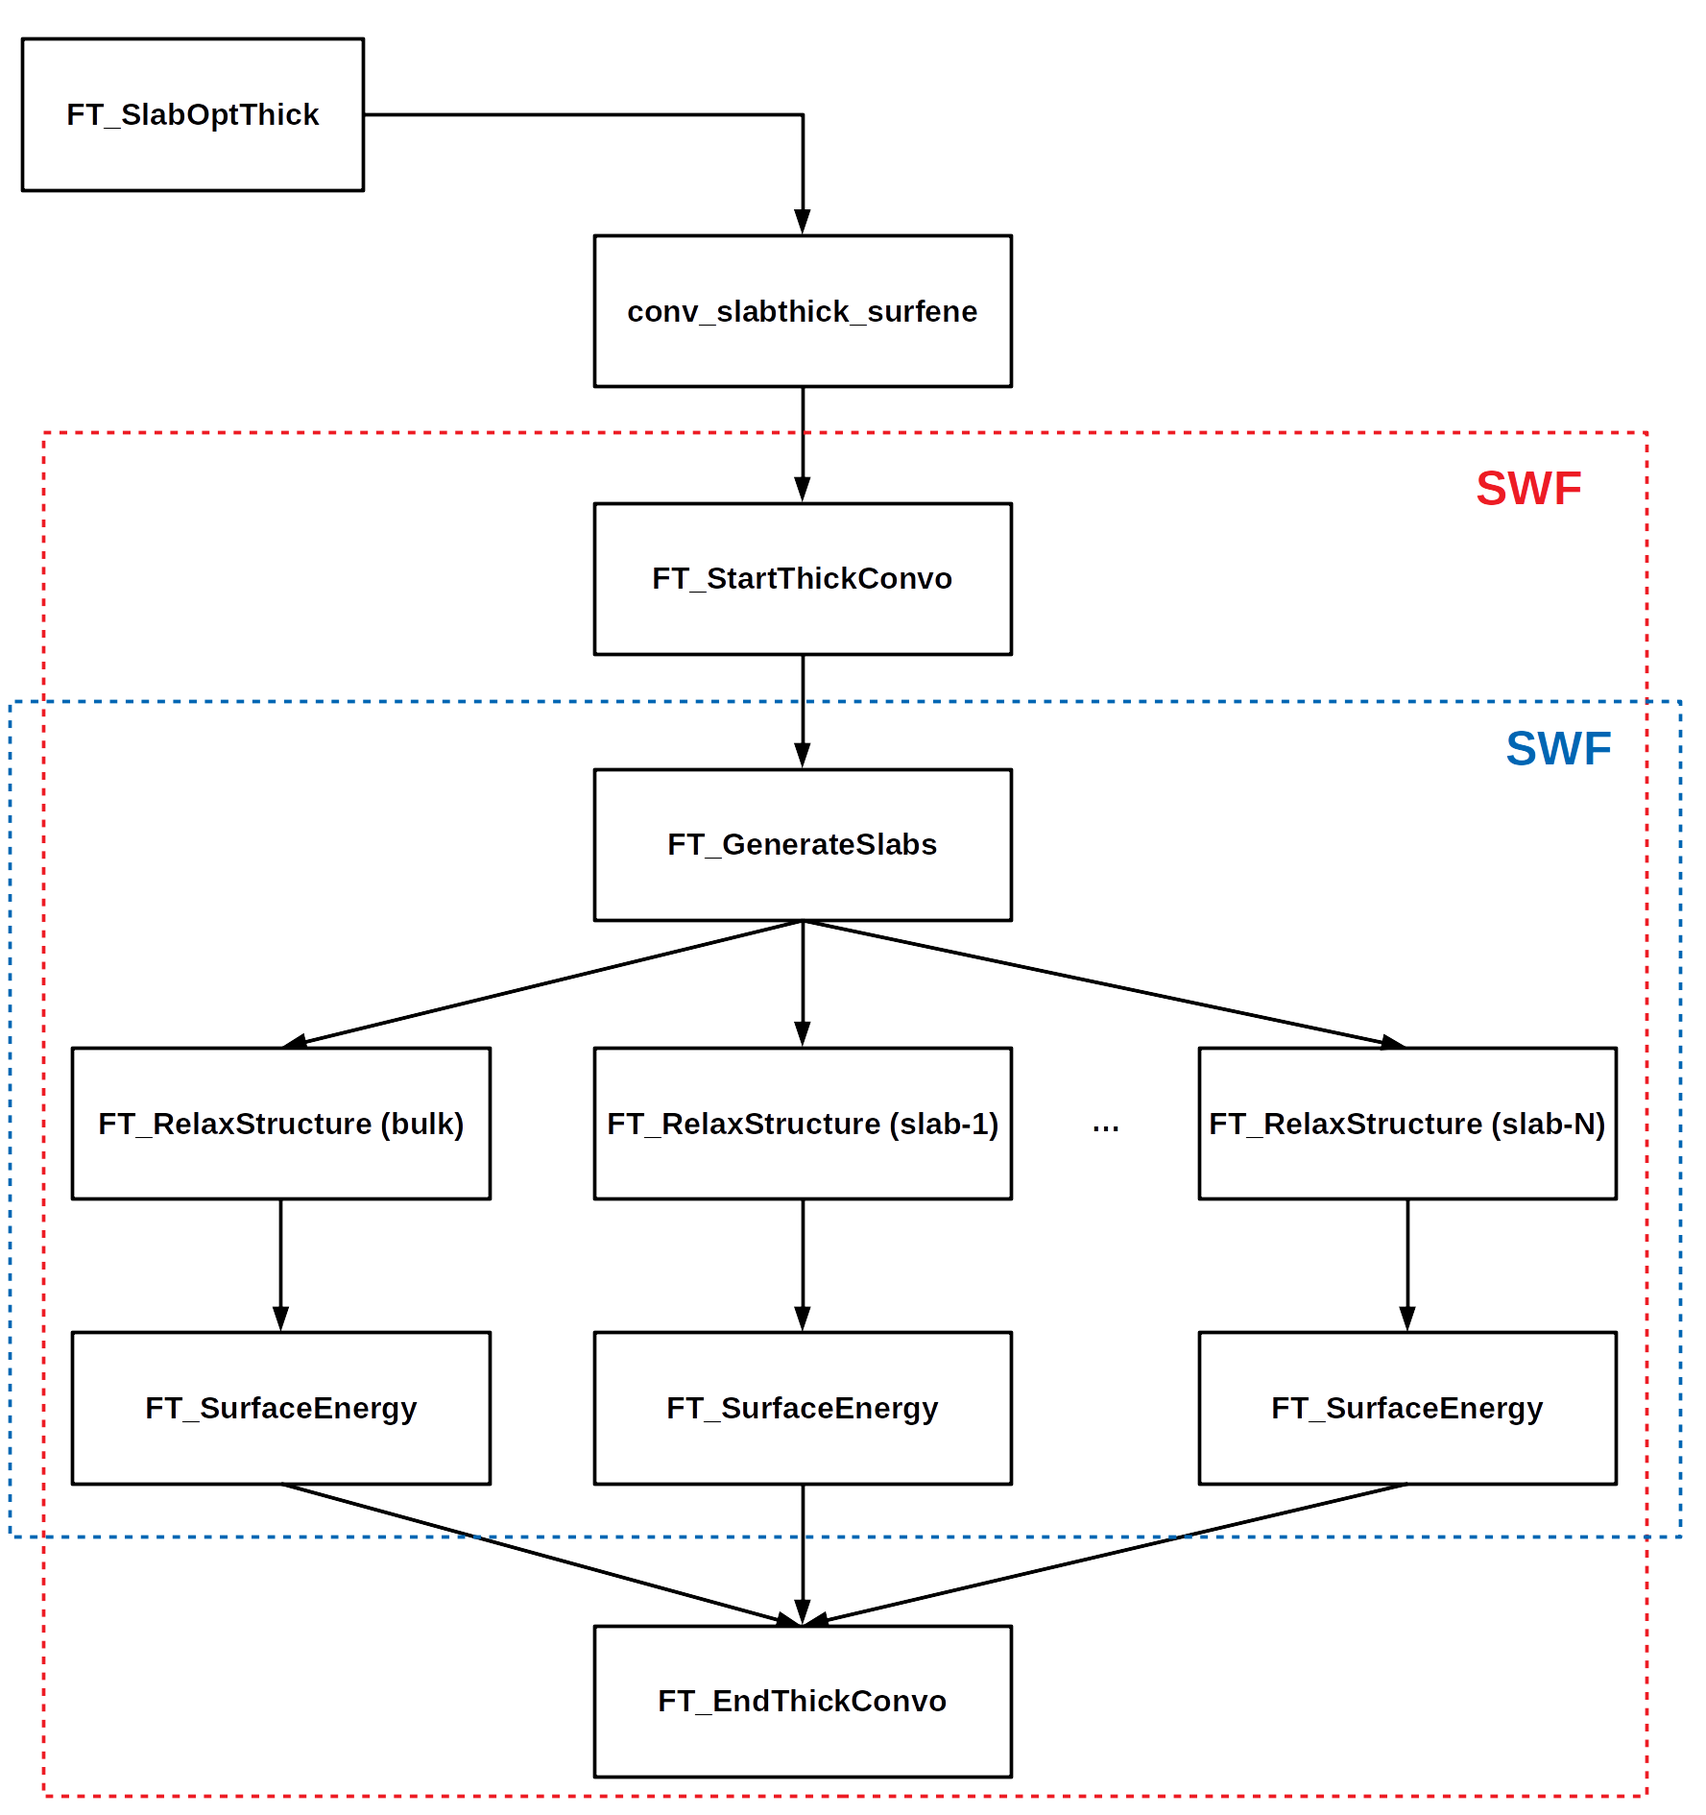
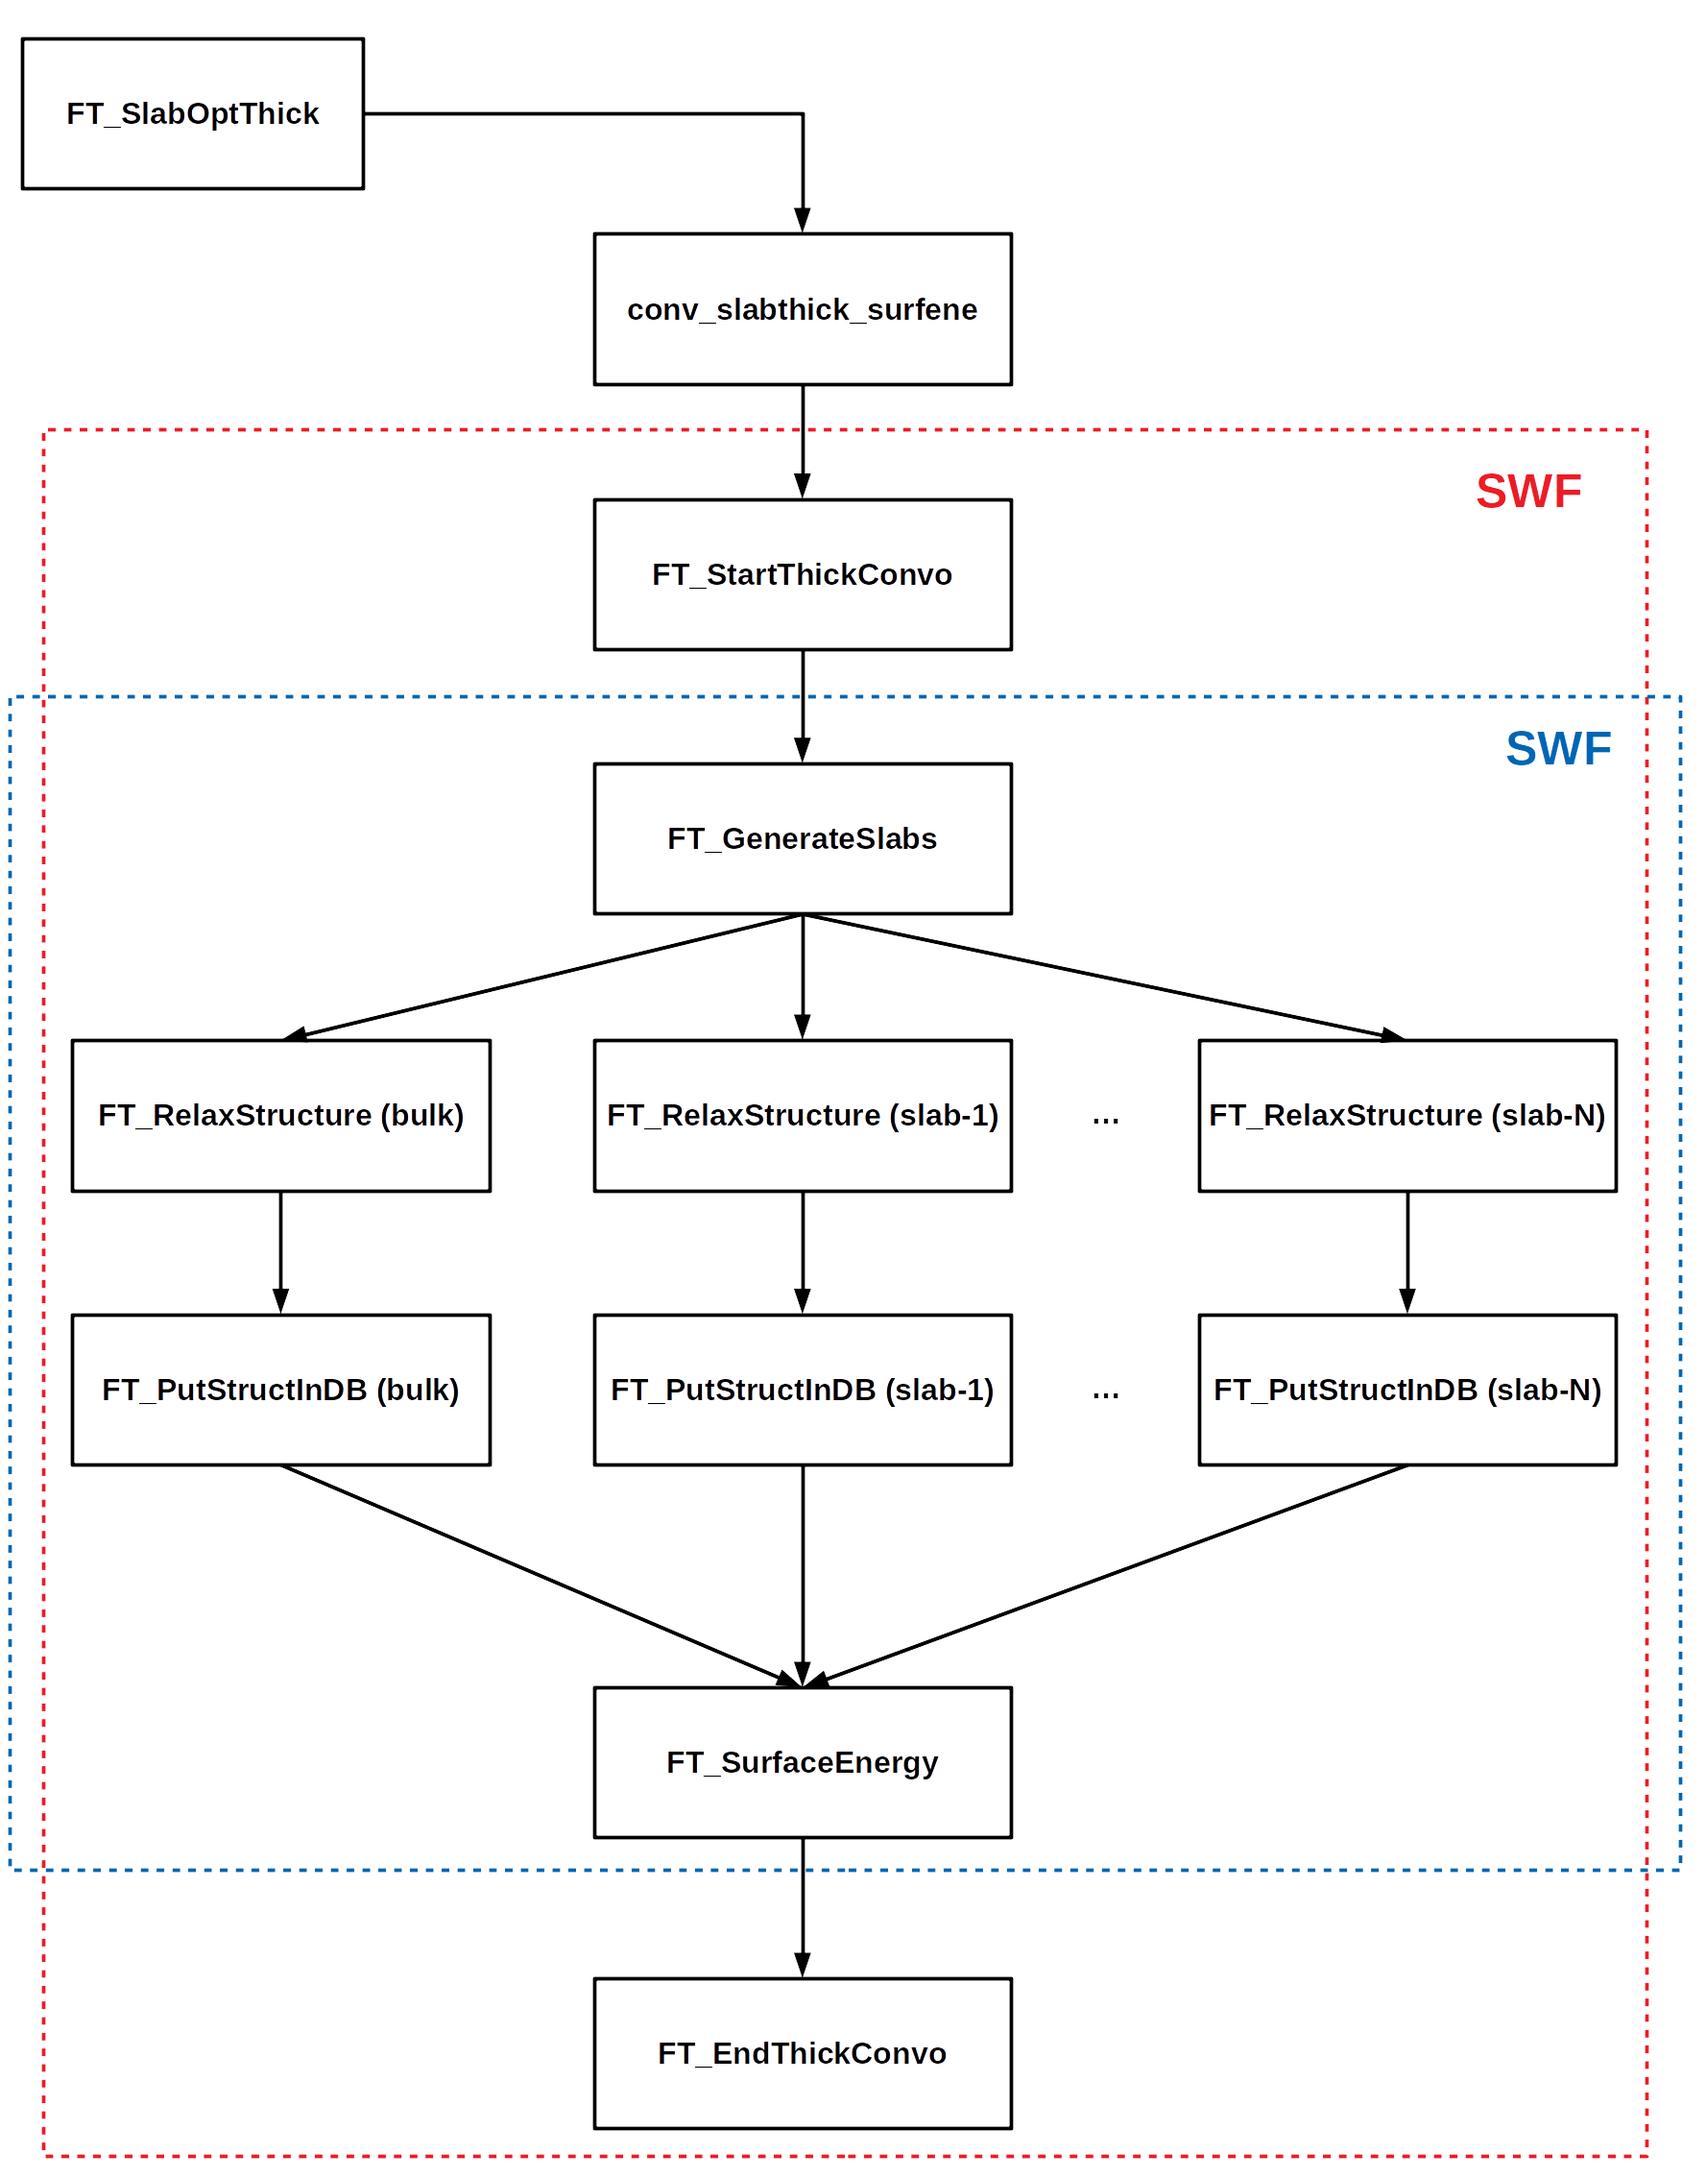
Update schemes

diff --git a/docs/slab_opt_thick.md b/docs/slab_opt_thick.md
@@ -33,9 +33,11 @@ The required and optional parameters are:
 
 5. **FT_RelaxStructure**: Generically relax a structure which is passed as input, such as bulks, slabs and interfaces. Before doing the relaxation it checks if the calculation has been already done previously calculated and stored on databases. It stores the final data on the provided database, the local one as the default.
 
-6. **FT_SurfaceEnergy**: Generically calculate the surface energy of a given slab (or a list of slabs) with respect to the corresponding bulk.
+6. **FT_PutStructInDB**: Retrieve the relaxed structure and store them in the provided Database.
 
-7. **FT_EndThickConvo**: End the calculation of the optimal slab thickness. It finds out the optimal surface energy and the corresponding number of atomic layers. It stores on the high level db the relaxed slab, its surface energy and optimal thickness. 
+7. **FT_SurfaceEnergy**: Generically calculate the surface energy of a given slab (or a list of slabs) with respect to the corresponding bulk.
+
+8. **FT_EndThickConvo**: End the calculation of the optimal slab thickness. It finds out the optimal surface energy and the corresponding number of atomic layers. It stores on the high level db the relaxed slab, its surface energy and optimal thickness. 
 
 
 
